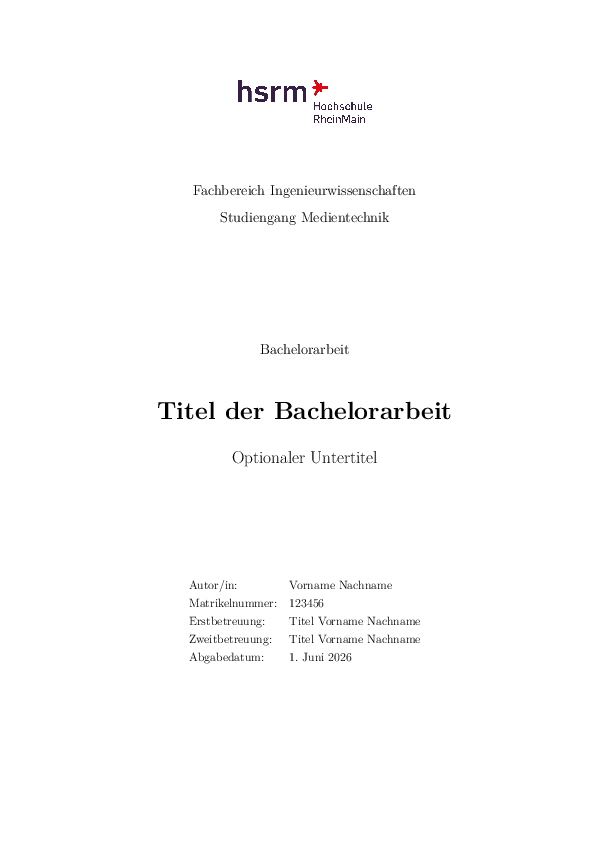
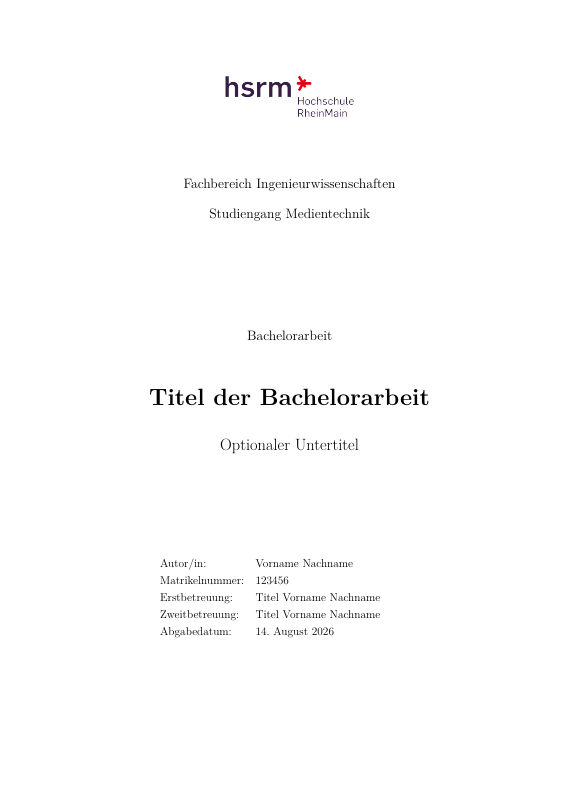
docs: expand README overview and refresh previews

diff --git a/README.md b/README.md
@@ -5,16 +5,21 @@
 [![Downloads](https://img.shields.io/github/downloads/johind/hsrm-latex-template/hsrm-latex-template.zip?label=Downloads&displayAssetName=false)](https://github.com/johind/hsrm-latex-template/releases/latest/download/hsrm-latex-template.zip)
 [![Code License](https://img.shields.io/github/license/johind/hsrm-latex-template?label=Code%20License)](#license)
 
-Use this template to prepare academic projects, bachelor's theses, and master's
-theses at Hochschule RheinMain. Enter the document details in
-`config/metadata.tex`, add chapters under `sections/`, manage sources in
-`references.bib`, and compile `main.tex`.
+This template provides a good starting point for academic projects, bachelor's
+and master's theses at Hochschule RheinMain. It covers everything from the layout
+and structure of the document — including the cover page, chapters, equations,
+figures, tables and source code listings — to citations, cross-references, units,
+acronyms, the table of contents, lists of figures, tables and listings,
+appendices and the bibliography.
+
+Enter the document details in `config/metadata.tex`, add chapters under
+`sections/`, manage sources in `references.bib`, and compile `main.tex`.
 
 ## Preview
 
-| Cover page                                    | Table of contents                                  |
-| --------------------------------------------- | -------------------------------------------------- |
-| ![Cover page preview](docs/preview-cover.png) | ![Table of contents preview](docs/preview-toc.png) |
+| Cover Page                                    | Table of Contents                                  | Equations                                        |
+| --------------------------------------------- | -------------------------------------------------- | ------------------------------------------------ |
+| ![Cover page preview](docs/preview-cover.png) | ![Table of contents preview](docs/preview-toc.png) | ![Equations preview](docs/preview-equations.png) |
 
 Open the [complete PDF preview](https://github.com/johind/hsrm-latex-template/releases/latest/download/preview.pdf)
 to review the generated document.
